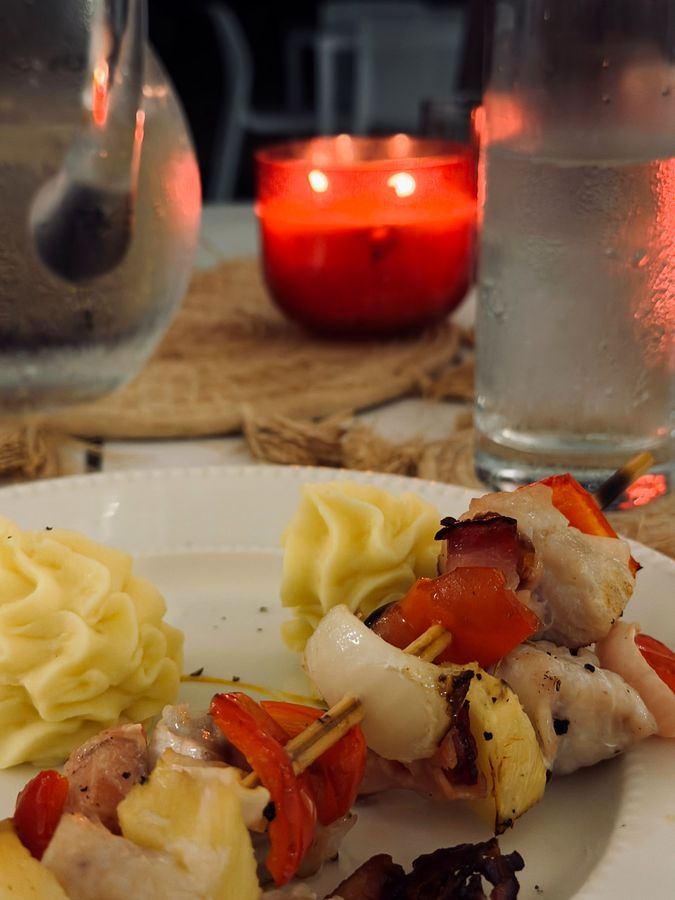
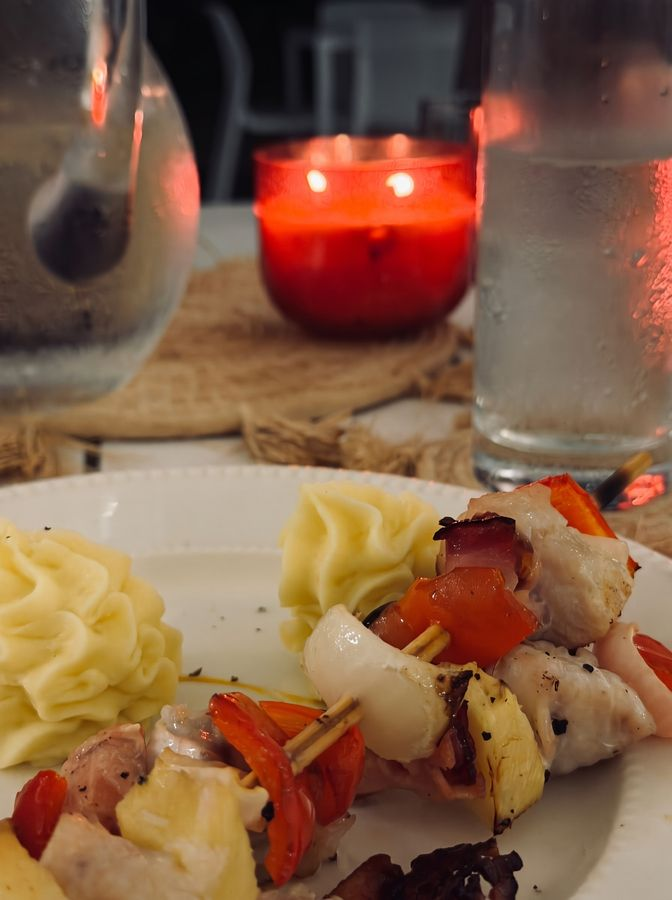
Casa Panza: fotos de cena y plato mejoradas con IA; mecedora con puerta turquesa

diff --git a/index.html b/index.html
@@ -36,9 +36,9 @@
   <link rel="preconnect" href="https://fonts.googleapis.com">
   <link rel="preconnect" href="https://fonts.gstatic.com" crossorigin>
   <link href="https://fonts.googleapis.com/css2?family=Marcellus&family=Tenor+Sans&display=swap" rel="stylesheet">
-  <link rel="stylesheet" href="css/base.css?v=20260930e">
-  <link rel="stylesheet" href="css/layout.css?v=20260930e">
-  <link rel="stylesheet" href="css/components.css?v=20260930e">
+  <link rel="stylesheet" href="css/base.css?v=20260930f">
+  <link rel="stylesheet" href="css/layout.css?v=20260930f">
+  <link rel="stylesheet" href="css/components.css?v=20260930f">
 </head>
 <body>
   <!-- Pantalla de carga con el logo (la controla js/main.js) -->
@@ -155,9 +155,9 @@
   <!-- 8. Footer (lo genera js/main.js) -->
   <footer id="site-footer"></footer>
 
-  <script src="js/i18n.js?v=20260930e"></script>
-  <script src="js/main.js?v=20260930e"></script>
-  <script src="js/casas.js?v=20260930e"></script>
-  <script src="js/merch.js?v=20260930e"></script>
+  <script src="js/i18n.js?v=20260930f"></script>
+  <script src="js/main.js?v=20260930f"></script>
+  <script src="js/casas.js?v=20260930f"></script>
+  <script src="js/merch.js?v=20260930f"></script>
 </body>
 </html>

diff --git a/los-roques.html b/los-roques.html
@@ -35,9 +35,9 @@
   <link rel="preconnect" href="https://fonts.googleapis.com">
   <link rel="preconnect" href="https://fonts.gstatic.com" crossorigin>
   <link href="https://fonts.googleapis.com/css2?family=Marcellus&family=Tenor+Sans&display=swap" rel="stylesheet">
-  <link rel="stylesheet" href="css/base.css?v=20260930e">
-  <link rel="stylesheet" href="css/layout.css?v=20260930e">
-  <link rel="stylesheet" href="css/components.css?v=20260930e">
+  <link rel="stylesheet" href="css/base.css?v=20260930f">
+  <link rel="stylesheet" href="css/layout.css?v=20260930f">
+  <link rel="stylesheet" href="css/components.css?v=20260930f">
 </head>
 <body>
   <!-- Pantalla de carga con el logo (la controla js/main.js) -->
@@ -138,9 +138,9 @@
 
   <footer id="site-footer"></footer>
 
-  <script src="js/i18n.js?v=20260930e"></script>
-  <script src="js/main.js?v=20260930e"></script>
-  <script src="js/casas.js?v=20260930e"></script>
-  <script src="js/galeria.js?v=20260930e"></script>
+  <script src="js/i18n.js?v=20260930f"></script>
+  <script src="js/main.js?v=20260930f"></script>
+  <script src="js/casas.js?v=20260930f"></script>
+  <script src="js/galeria.js?v=20260930f"></script>
 </body>
 </html>

diff --git a/casa.html b/casa.html
@@ -36,9 +36,9 @@
   <link rel="preconnect" href="https://fonts.googleapis.com">
   <link rel="preconnect" href="https://fonts.gstatic.com" crossorigin>
   <link href="https://fonts.googleapis.com/css2?family=Marcellus&family=Tenor+Sans&display=swap" rel="stylesheet">
-  <link rel="stylesheet" href="css/base.css?v=20260930e">
-  <link rel="stylesheet" href="css/layout.css?v=20260930e">
-  <link rel="stylesheet" href="css/components.css?v=20260930e">
+  <link rel="stylesheet" href="css/base.css?v=20260930f">
+  <link rel="stylesheet" href="css/layout.css?v=20260930f">
+  <link rel="stylesheet" href="css/components.css?v=20260930f">
 </head>
 <body>
   <!-- Pantalla de carga con el logo (la controla js/main.js) -->
@@ -62,9 +62,9 @@
 
   <footer id="site-footer"></footer>
 
-  <script src="js/i18n.js?v=20260930e"></script>
-  <script src="js/main.js?v=20260930e"></script>
-  <script src="js/casas.js?v=20260930e"></script>
-  <script src="js/galeria.js?v=20260930e"></script>
+  <script src="js/i18n.js?v=20260930f"></script>
+  <script src="js/main.js?v=20260930f"></script>
+  <script src="js/casas.js?v=20260930f"></script>
+  <script src="js/galeria.js?v=20260930f"></script>
 </body>
 </html>

diff --git a/merchandise.html b/merchandise.html
@@ -35,9 +35,9 @@
   <link rel="preconnect" href="https://fonts.googleapis.com">
   <link rel="preconnect" href="https://fonts.gstatic.com" crossorigin>
   <link href="https://fonts.googleapis.com/css2?family=Marcellus&family=Tenor+Sans&display=swap" rel="stylesheet">
-  <link rel="stylesheet" href="css/base.css?v=20260930e">
-  <link rel="stylesheet" href="css/layout.css?v=20260930e">
-  <link rel="stylesheet" href="css/components.css?v=20260930e">
+  <link rel="stylesheet" href="css/base.css?v=20260930f">
+  <link rel="stylesheet" href="css/layout.css?v=20260930f">
+  <link rel="stylesheet" href="css/components.css?v=20260930f">
 </head>
 <body>
   <!-- Pantalla de carga con el logo (la controla js/main.js) -->
@@ -69,9 +69,9 @@
 
   <footer id="site-footer"></footer>
 
-  <script src="js/i18n.js?v=20260930e"></script>
-  <script src="js/main.js?v=20260930e"></script>
-  <script src="js/casas.js?v=20260930e"></script>
-  <script src="js/merch.js?v=20260930e"></script>
+  <script src="js/i18n.js?v=20260930f"></script>
+  <script src="js/main.js?v=20260930f"></script>
+  <script src="js/casas.js?v=20260930f"></script>
+  <script src="js/merch.js?v=20260930f"></script>
 </body>
 </html>

diff --git a/contacto.html b/contacto.html
@@ -35,9 +35,9 @@
   <link rel="preconnect" href="https://fonts.googleapis.com">
   <link rel="preconnect" href="https://fonts.gstatic.com" crossorigin>
   <link href="https://fonts.googleapis.com/css2?family=Marcellus&family=Tenor+Sans&display=swap" rel="stylesheet">
-  <link rel="stylesheet" href="css/base.css?v=20260930e">
-  <link rel="stylesheet" href="css/layout.css?v=20260930e">
-  <link rel="stylesheet" href="css/components.css?v=20260930e">
+  <link rel="stylesheet" href="css/base.css?v=20260930f">
+  <link rel="stylesheet" href="css/layout.css?v=20260930f">
+  <link rel="stylesheet" href="css/components.css?v=20260930f">
 </head>
 <body>
   <!-- Pantalla de carga con el logo (la controla js/main.js) -->
@@ -112,8 +112,8 @@
 
   <footer id="site-footer"></footer>
 
-  <script src="js/i18n.js?v=20260930e"></script>
-  <script src="js/main.js?v=20260930e"></script>
-  <script src="js/casas.js?v=20260930e"></script>
+  <script src="js/i18n.js?v=20260930f"></script>
+  <script src="js/main.js?v=20260930f"></script>
+  <script src="js/casas.js?v=20260930f"></script>
 </body>
 </html>

diff --git a/casas.html b/casas.html
@@ -35,9 +35,9 @@
   <link rel="preconnect" href="https://fonts.googleapis.com">
   <link rel="preconnect" href="https://fonts.gstatic.com" crossorigin>
   <link href="https://fonts.googleapis.com/css2?family=Marcellus&family=Tenor+Sans&display=swap" rel="stylesheet">
-  <link rel="stylesheet" href="css/base.css?v=20260930e">
-  <link rel="stylesheet" href="css/layout.css?v=20260930e">
-  <link rel="stylesheet" href="css/components.css?v=20260930e">
+  <link rel="stylesheet" href="css/base.css?v=20260930f">
+  <link rel="stylesheet" href="css/layout.css?v=20260930f">
+  <link rel="stylesheet" href="css/components.css?v=20260930f">
 </head>
 <body>
   <!-- Pantalla de carga con el logo (la controla js/main.js) -->
@@ -76,8 +76,8 @@
 
   <footer id="site-footer"></footer>
 
-  <script src="js/i18n.js?v=20260930e"></script>
-  <script src="js/main.js?v=20260930e"></script>
-  <script src="js/casas.js?v=20260930e"></script>
+  <script src="js/i18n.js?v=20260930f"></script>
+  <script src="js/main.js?v=20260930f"></script>
+  <script src="js/casas.js?v=20260930f"></script>
 </body>
 </html>

diff --git a/404.html b/404.html
@@ -35,9 +35,9 @@
   <link rel="preconnect" href="https://fonts.googleapis.com">
   <link rel="preconnect" href="https://fonts.gstatic.com" crossorigin>
   <link href="https://fonts.googleapis.com/css2?family=Marcellus&family=Tenor+Sans&display=swap" rel="stylesheet">
-  <link rel="stylesheet" href="css/base.css?v=20260930e">
-  <link rel="stylesheet" href="css/layout.css?v=20260930e">
-  <link rel="stylesheet" href="css/components.css?v=20260930e">
+  <link rel="stylesheet" href="css/base.css?v=20260930f">
+  <link rel="stylesheet" href="css/layout.css?v=20260930f">
+  <link rel="stylesheet" href="css/components.css?v=20260930f">
 </head>
 <body>
   <header id="site-header"></header>
@@ -52,7 +52,7 @@
     </section>
   </main>
   <footer id="site-footer"></footer>
-  <script src="js/i18n.js?v=20260930e"></script>
-  <script src="js/main.js?v=20260930e"></script>
+  <script src="js/i18n.js?v=20260930f"></script>
+  <script src="js/main.js?v=20260930f"></script>
 </body>
 </html>
